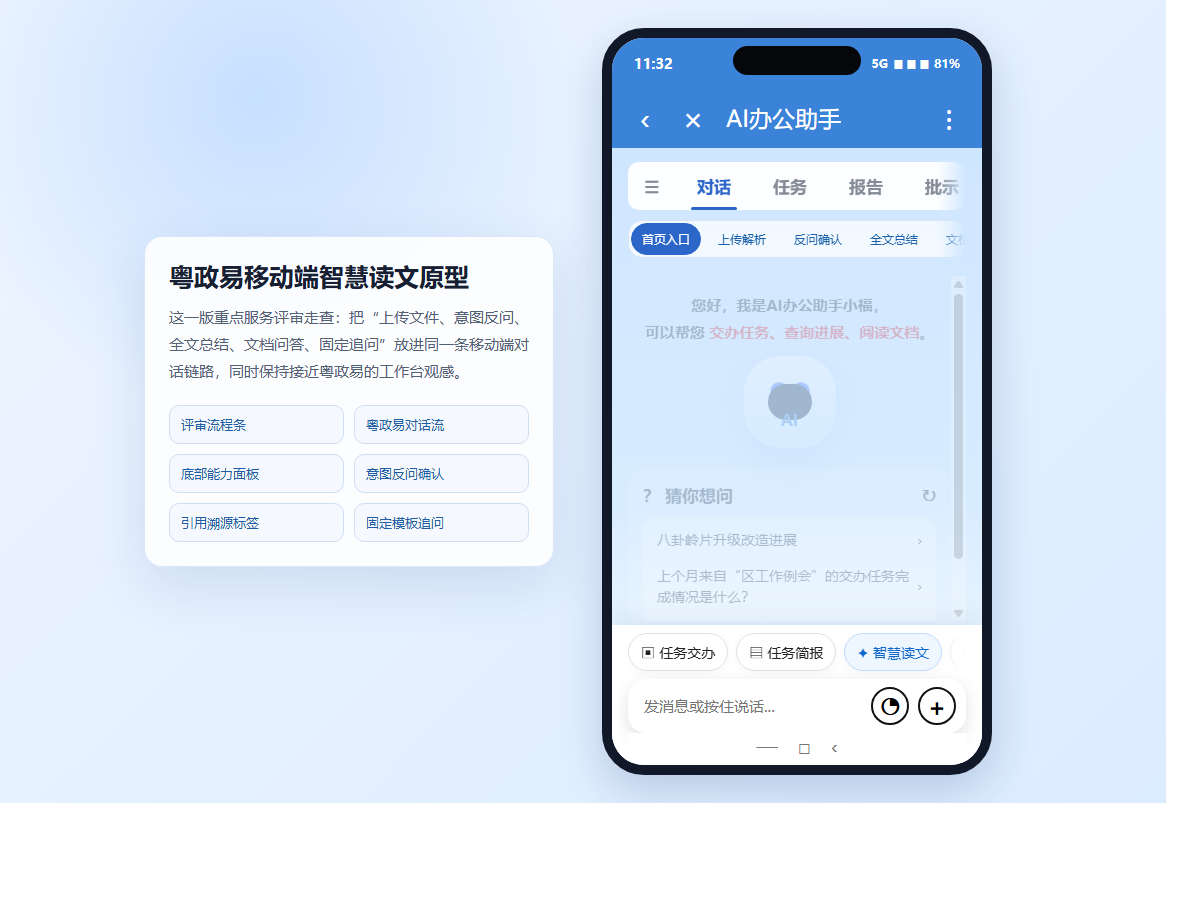
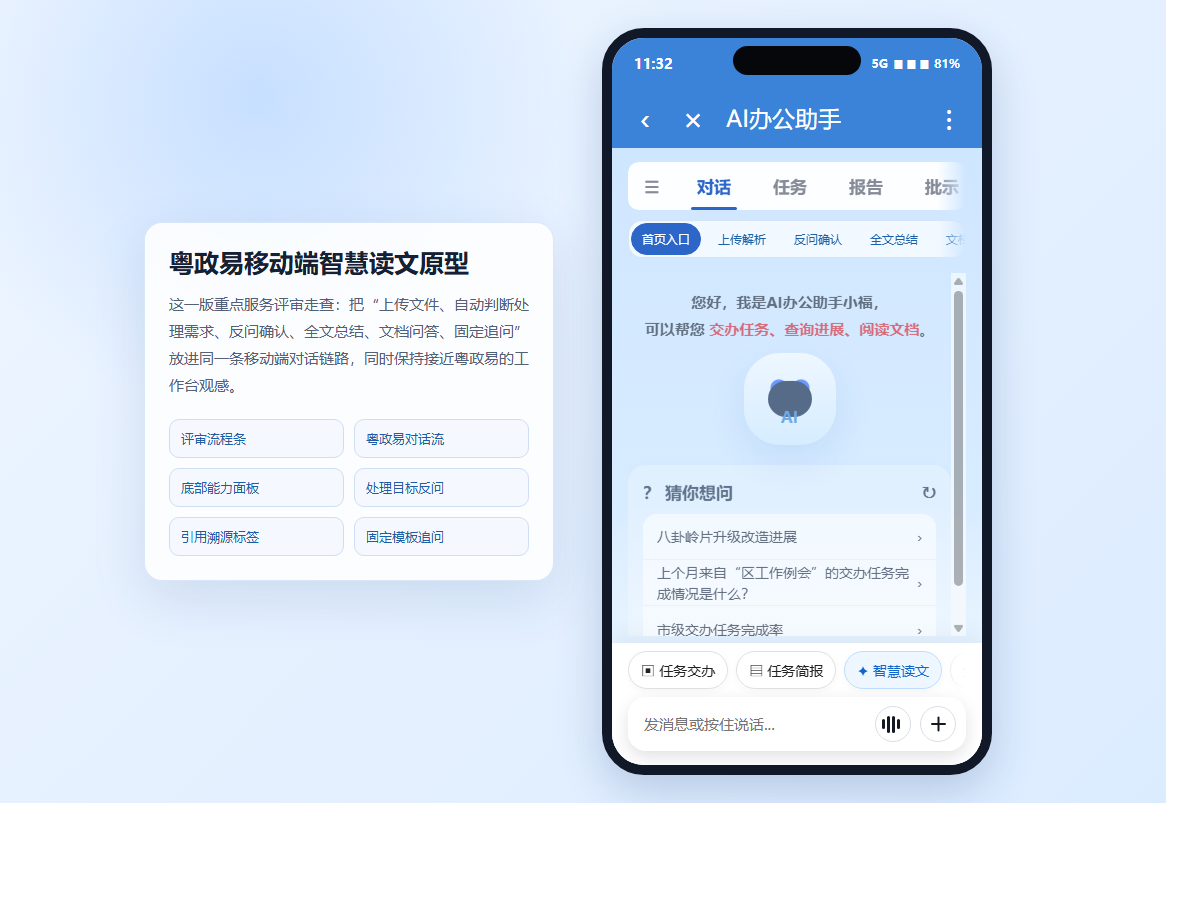
优化智慧读文需求判断表述

diff --git a/mobile_prototype/output/index.html b/mobile_prototype/output/index.html
@@ -621,7 +621,7 @@
 
     .composer {
       min-width: 0;
-      padding: 8px 16px 12px;
+      padding: 8px 16px 14px;
       background: #fff;
       box-shadow: 0 -8px 20px rgba(36, 75, 126, .08);
     }
@@ -678,17 +678,52 @@
       font-size: 15px;
     }
 
-    .round-btn {
+    .icon-btn {
       display: grid;
-      width: 38px;
-      height: 38px;
+      width: 36px;
+      height: 36px;
       place-items: center;
-      border: 2px solid #111;
+      flex: 0 0 auto;
+      border: 1px solid #d8dde6;
       border-radius: 50%;
       background: #fff;
-      font-size: 24px;
-      font-weight: 700;
       cursor: pointer;
+      position: relative;
+    }
+
+    .icon-btn.voice {
+      gap: 2px;
+      grid-template-columns: repeat(4, 3px);
+    }
+
+    .icon-btn.voice span {
+      width: 3px;
+      border-radius: 999px;
+      background: #151923;
+    }
+
+    .icon-btn.voice span:nth-child(1),
+    .icon-btn.voice span:nth-child(4) {
+      height: 10px;
+    }
+
+    .icon-btn.voice span:nth-child(2),
+    .icon-btn.voice span:nth-child(3) {
+      height: 17px;
+    }
+
+    .icon-btn.add::before,
+    .icon-btn.add::after {
+      content: "";
+      position: absolute;
+      width: 15px;
+      height: 2px;
+      border-radius: 999px;
+      background: #151923;
+    }
+
+    .icon-btn.add::after {
+      transform: rotate(90deg);
     }
 
     .state-tabs {
@@ -732,15 +767,6 @@
       background: var(--blue-deep);
     }
 
-    .bottom-safe {
-      height: 20px;
-      display: grid;
-      place-items: center;
-      color: #777;
-      font-size: 20px;
-      background: #fff;
-    }
-
     @media (max-width: 860px) {
       body {
         place-items: start center;
@@ -778,12 +804,12 @@
   <main class="review-shell">
     <section class="review-note">
       <h1>粤政易移动端智慧读文原型</h1>
-      <p>这一版重点服务评审走查：把“上传文件、意图反问、全文总结、文档问答、固定追问”放进同一条移动端对话链路，同时保持接近粤政易的工作台观感。</p>
+      <p>这一版重点服务评审走查：把“上传文件、自动判断处理需求、反问确认、全文总结、文档问答、固定追问”放进同一条移动端对话链路，同时保持接近粤政易的工作台观感。</p>
       <div class="note-grid">
         <span>评审流程条</span>
         <span>粤政易对话流</span>
         <span>底部能力面板</span>
-        <span>意图反问确认</span>
+        <span>处理目标反问</span>
         <span>引用溯源标签</span>
         <span>固定模板追问</span>
       </div>
@@ -855,9 +881,9 @@
               <div class="msg">
                 <div class="avatar">AI</div>
                 <div class="bubble">
-                  已收到文件，正在进行智慧读文意图识别与文档解析。
+                  已收到文件，正在判断您的文档处理需求，并解析文件内容。
                   <div class="flow-chips">
-                    <span>意图识别</span>
+                    <span>需求判断</span>
                     <span>PDF解析</span>
                     <span>OCR兜底</span>
                   </div>
@@ -885,8 +911,8 @@
                 <div class="bubble">
                   检测到您上传了文件，请确认需要进行哪类操作？
                   <div class="flow-chips">
-                    <span>低置信度</span>
-                    <span>用户补全意图</span>
+                    <span>处理目标不明确</span>
+                    <span>用户确认目标</span>
                   </div>
                   <div class="choice-row">
                     <button type="button" data-screen="summary">全文总结</button>
@@ -960,7 +986,7 @@
                     <button type="button">生成风险提示</button>
                     <button type="button">形成汇报口径</button>
                   </div>
-                  <div class="tip">猜你想问按钮为固定模板：上一轮答案摘要 + 当前按钮意图 + 引用片段。</div>
+                  <div class="tip">猜你想问按钮为固定模板：上一轮答案摘要 + 当前按钮目标 + 引用片段。</div>
                 </div>
               </div>
             </div>
@@ -977,10 +1003,11 @@
           </div>
           <div class="input-box">
             <input placeholder="发消息或按住说话..." aria-label="输入框">
-            <button class="round-btn" type="button">◔</button>
-            <button class="round-btn" type="button" id="plusBtn">+</button>
+            <button class="icon-btn voice" type="button" aria-label="语音输入">
+              <span></span><span></span><span></span><span></span>
+            </button>
+            <button class="icon-btn add" type="button" id="plusBtn" aria-label="上传文件"></button>
           </div>
-          <div class="bottom-safe">—　□　‹</div>
         </footer>
       </div>
 
@@ -1007,7 +1034,7 @@
             </button>
             <button class="sheet-card" type="button" data-screen="clarify">
               <strong>反问确认</strong>
-              <span>意图不明确时确认总结或问答。</span>
+              <span>处理目标不明确时确认总结或问答。</span>
             </button>
           </div>
         </section>
